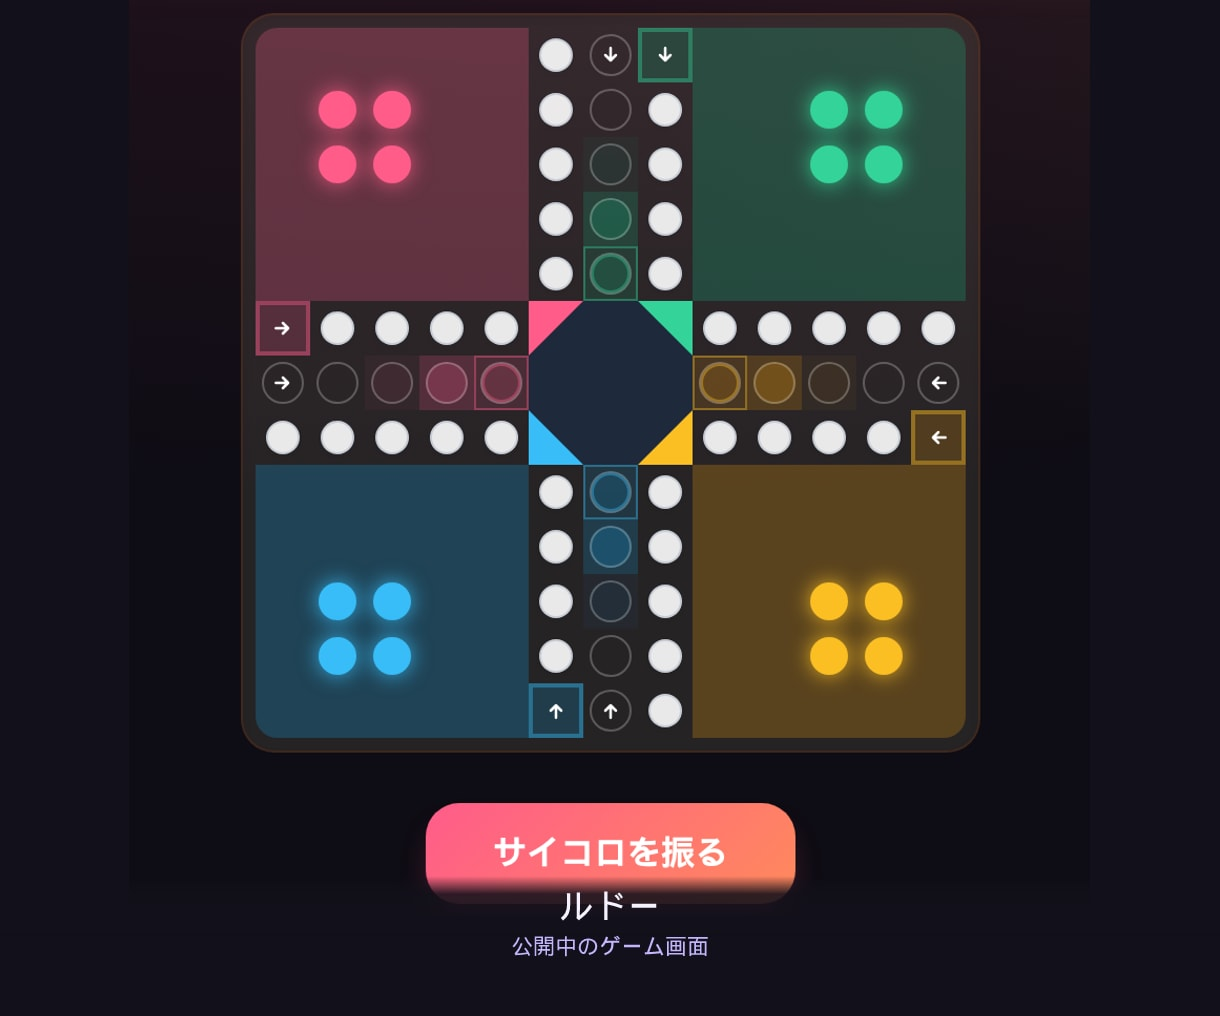
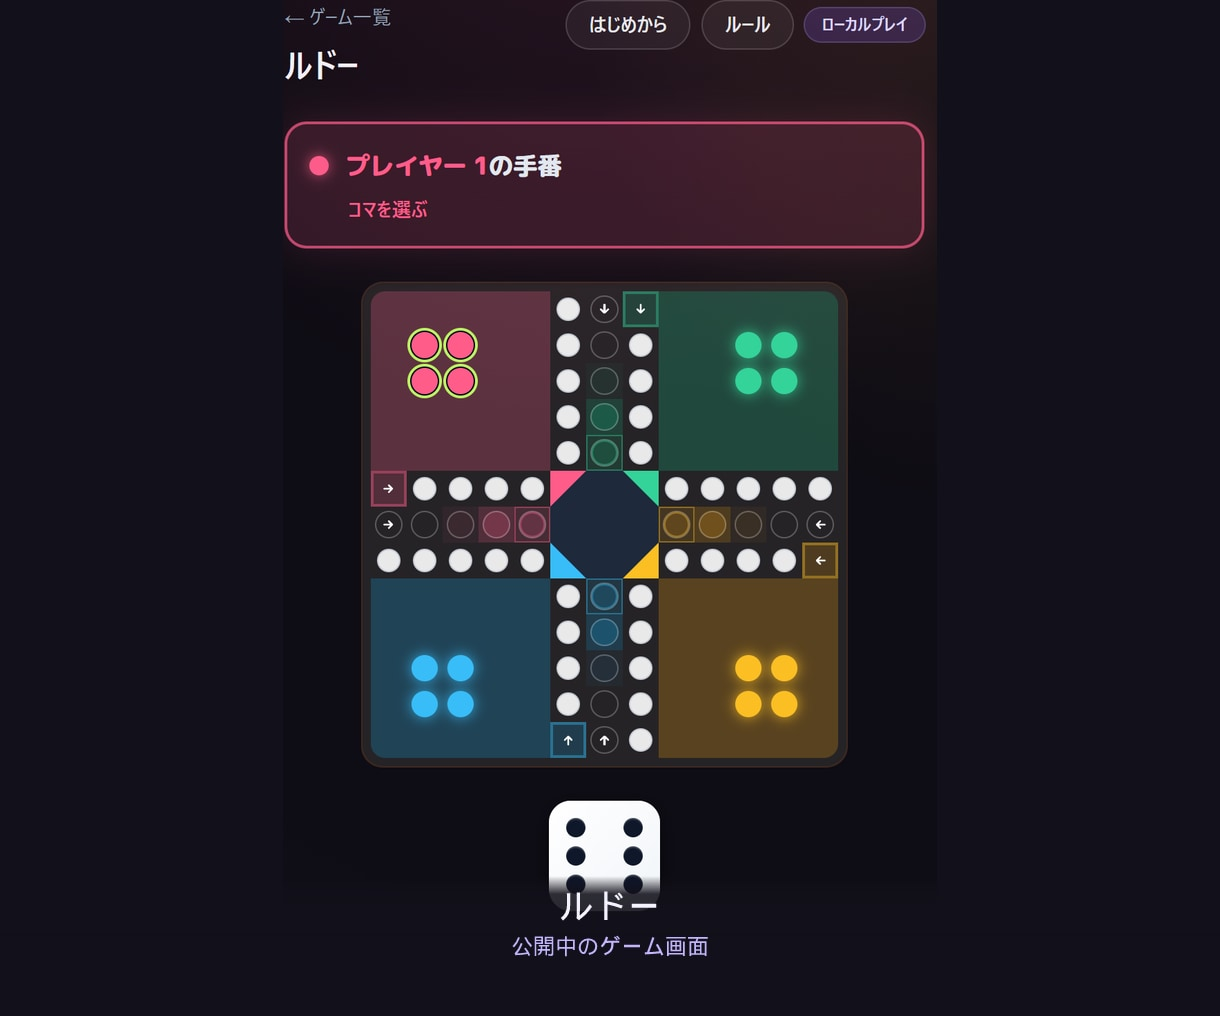
docs(coconala): ルドーサムネを手動スクショに差し替え

diff --git a/docs/coconala/listing.md b/docs/coconala/listing.md
@@ -45,11 +45,11 @@
 |---|----------|----------------|
 | 2 | [thumbnail-02.jpg](./thumbnail-02.jpg) | 砲塔戦棋（手動スクショ → [sources/thumbnail-02-source.png](./sources/thumbnail-02-source.png)） |
 | 3 | [thumbnail-03.jpg](./thumbnail-03.jpg) | マンカラ・カラハ（手動スクショ → [sources/thumbnail-03-source.png](./sources/thumbnail-03-source.png)） |
-| 4 | [thumbnail-04.jpg](./thumbnail-04.jpg) | ルドー（`ludo`） |
+| 4 | [thumbnail-04.jpg](./thumbnail-04.jpg) | ルドー（手動スクショ → [sources/thumbnail-04-source.png](./sources/thumbnail-04-source.png)） |
 
 ※キャプチャ時はサイト共通ヘッダーを除く。下帯は「公開中のゲーム画面」。
 
-再生成: 4枚目は `npm install playwright sharp @resvg/resvg-js` のあと dev 起動して `node scripts/capture-coconala-play-shots.mjs`。2・3枚目は `node scripts/compose-coconala-screenshot.mjs`（元 PNG は `docs/coconala/sources/`）
+再生成: `node scripts/compose-coconala-screenshot.mjs <sources/*.png> <ゲーム名> docs/coconala/thumbnail-0N.jpg`（要 `sharp` `@resvg/resvg-js`）。自動キャプチャ用は `capture-coconala-play-shots.mjs`（現状未使用）
 
 5枚目以降の候補: 購入フロー図、複雑度オプションの説明、別ゲームのスクショ追加。
 
